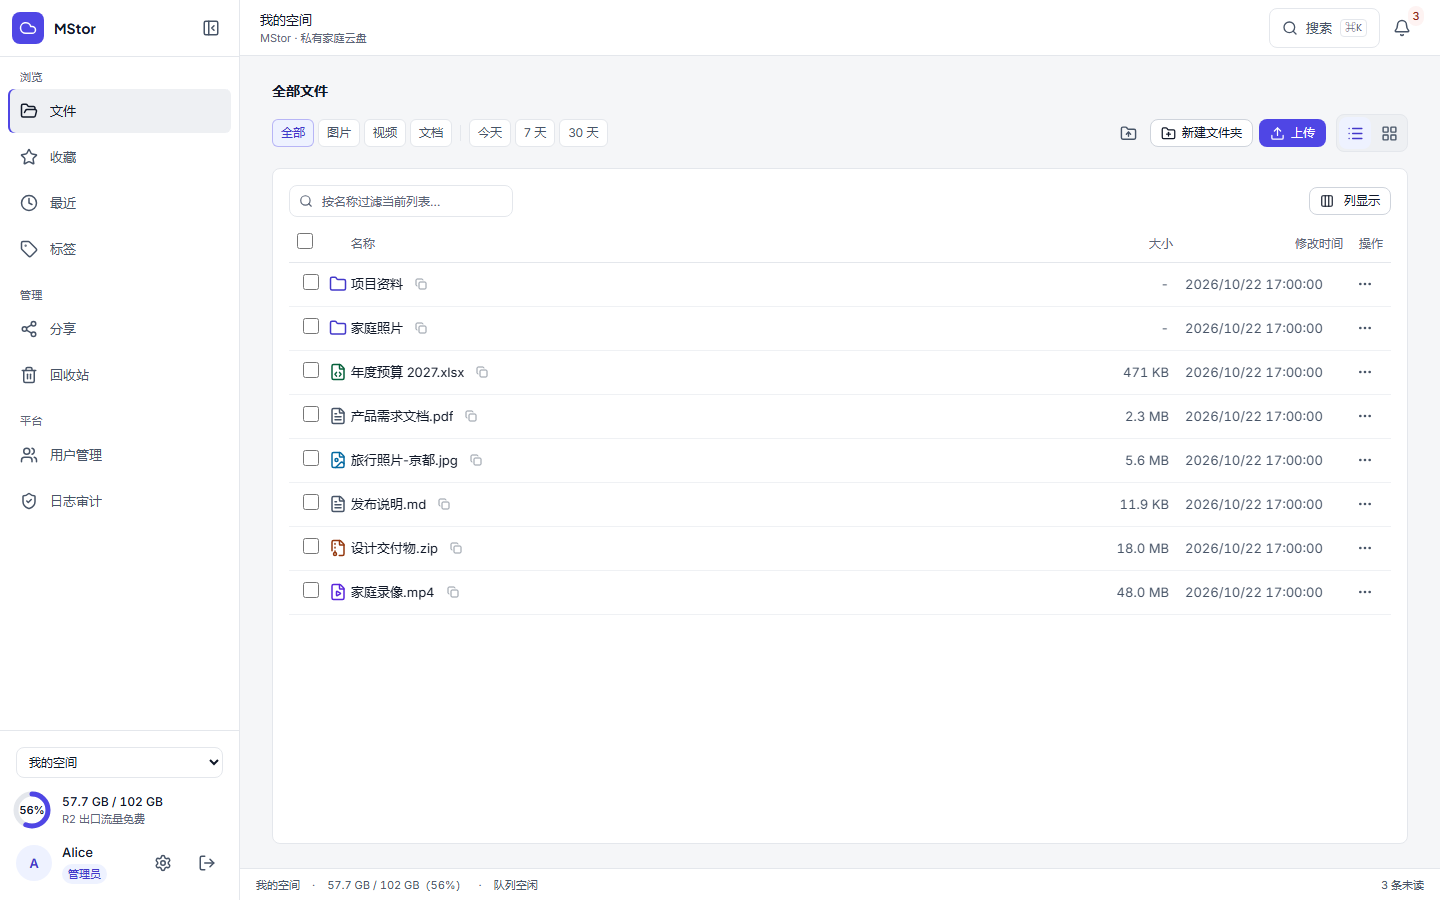
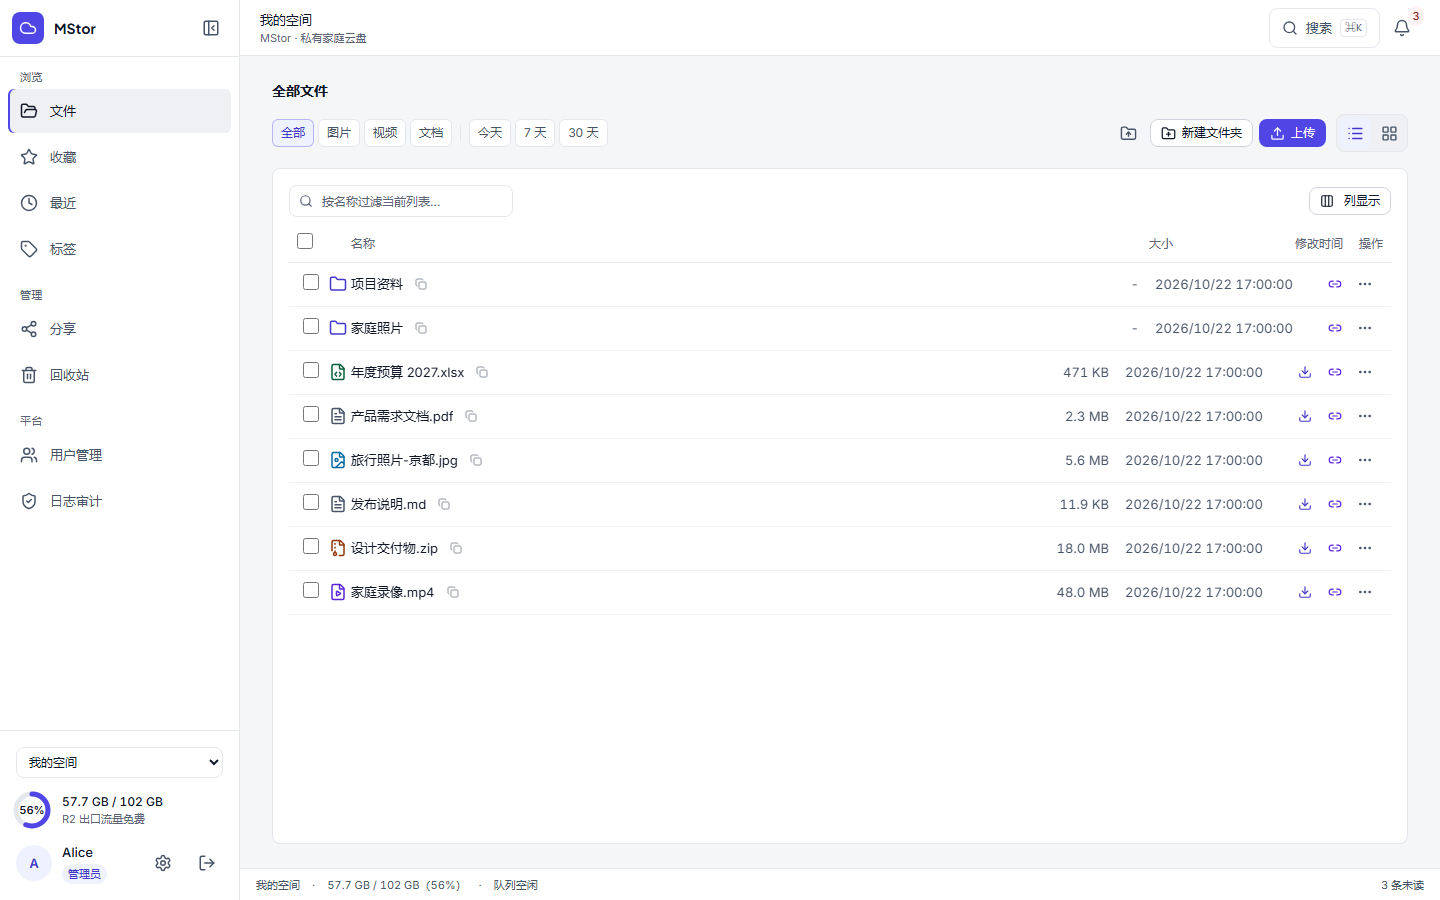
feat(files): 关键动作直显，次要动作折叠进更多
- 列表桌面：下载 + 分享 + 更多；文件夹：分享 + 更多；移动端下载 + 更多
- 网格桌面：下载 + 分享 + 更多；移动端下载 + 更多，保住卡片/文件名宽度
- 收藏/打开/重命名/移动/复制/链接/标签/删除/详情等次要动作收进更多菜单
- 新增关键动作展示用例；更新组件审计/v8.4 文档与视觉基线
- 客户端 267 例、server 29、visual 22/22；双 tsc/eslint/build 全绿

diff --git a/client/src/components/FileList.tsx b/client/src/components/FileList.tsx
@@ -9,7 +9,7 @@ import type {
   RefObject,
 } from "react";
 import type { FileTableRow } from "../hooks/useFileTable";
-import { Copy, Download, FolderOpen, MoreHorizontal } from "lucide-react";
+import { Copy, Download, FolderOpen, Link2, MoreHorizontal } from "lucide-react";
 import { contentUrl } from "../api/nodes";
 import { FileGrid } from "./FileGrid";
 import { FileRowCells } from "./FileRow";
@@ -79,6 +79,8 @@ interface Props {
   onDropMove?: (id: string, toDirId: string) => void;
   /** 空白区域框选：替换当前选择（ids 为命中的节点 id） */
   onSetSelection?: (ids: string[]) => void;
+  /** 关键操作：分享（列表桌面端直接展示，其余动作进「更多」） */
+  onShare?: (node: Node) => void;
   /** 移动端「更多」菜单：由页面提供菜单渲染（桌面仍显示完整行内操作） */
   onMoreMenu?: (node: Node, rect: DOMRect) => void;
 }
@@ -118,6 +120,7 @@ export default function FileList({
   onDropMove,
   onMoreMenu,
   onSetSelection,
+  onShare,
 }: Props) {
   // 拖拽移动状态：拖拽中禁用选择；文件夹行 dragover 高亮
   const [draggingId, setDraggingId] = useState<string | null>(null);
@@ -374,17 +377,35 @@ export default function FileList({
         onDoubleClick={(e) => e.stopPropagation()}
       >
         {onMoreMenu ? (
-          // 所有视口都只保留一个「更多」入口，动作收进菜单；不再依赖 hover 才出现
-          <RowAction
-            label={`更多操作 ${n.name}`}
-            className="tap"
-            onClick={(e) => {
-              e.stopPropagation();
-              onMoreMenu(n, e.currentTarget.getBoundingClientRect());
-            }}
-          >
-            <MoreHorizontal size={16} aria-hidden />
-          </RowAction>
+          <>
+            {/* 关键动作直接展示：文件「下载 + 分享」，文件夹「分享」；移动端仅下载+更多，把宽度让给文件名 */}
+            {download}
+            {onShare && (
+              <span className="hidden md:contents">
+                <RowAction
+                  label={`分享 ${n.name}`}
+                  tone="violet"
+                  onClick={(e) => {
+                    e.stopPropagation();
+                    onShare(n);
+                  }}
+                >
+                  <Link2 size={14} aria-hidden />
+                </RowAction>
+              </span>
+            )}
+            {/* 次要动作（收藏/重命名/移动/标签/删除…）全部收进更多 */}
+            <RowAction
+              label={`更多操作 ${n.name}`}
+              className="tap"
+              onClick={(e) => {
+                e.stopPropagation();
+                onMoreMenu(n, e.currentTarget.getBoundingClientRect());
+              }}
+            >
+              <MoreHorizontal size={16} aria-hidden />
+            </RowAction>
+          </>
         ) : (
           <>
             {download}

diff --git a/client/src/pages/Browser.tsx b/client/src/pages/Browser.tsx
@@ -1,7 +1,7 @@
 import { useEffect, useMemo, useRef, useState } from "react";
 import type { MouseEvent as ReactMouseEvent } from "react";
 import { useSearchParams } from "react-router-dom";
-import { Download, MoreHorizontal, TriangleAlert } from "lucide-react";
+import { Download, Link2, MoreHorizontal, TriangleAlert } from "lucide-react";
 import type { Node } from "../api/types";
 import Breadcrumb from "../components/Breadcrumb";
 import ContextMenu from "../components/ContextMenu";
@@ -222,6 +222,18 @@ export default function Browser() {
           <Download size={14} aria-hidden />
         </a>
       )}
+      <span className="hidden md:contents">
+        <RowAction
+          label={`分享 ${n.name}`}
+          tone="violet"
+          onClick={(e) => {
+            e.stopPropagation();
+            setSharing(n);
+          }}
+        >
+          <Link2 size={14} aria-hidden />
+        </RowAction>
+      </span>
       <RowAction
         label={`更多操作 ${n.name}`}
         onClick={(e) => {
@@ -350,6 +362,7 @@ export default function Browser() {
             emptyActions={filtered ? undefined : emptyDirActions}
             gridActions={gridActionsFor}
             onMoreMenu={(node, rect) => setMenu({ node, x: rect.right, y: rect.bottom })}
+            onShare={setSharing}
             onSetSelection={selection.setSelection}
             actions={(n) => (
               <NodeRowActions

diff --git a/client/src/components/FileList.test.tsx b/client/src/components/FileList.test.tsx
@@ -104,6 +104,23 @@ test("部分选中时表头全选框显示 indeterminate", () => {
   expect(all).toHaveAttribute("aria-checked", "mixed");
 });
 
+test("列表关键动作直接展示：下载/分享/更多，重命名折叠进菜单", () => {
+  const onShare = vi.fn();
+  renderWithProviders(
+    <FileList
+      nodes={[node()]}
+      onOpenDir={noop}
+      onOpenFile={noop}
+      onShare={onShare}
+      onMoreMenu={vi.fn()}
+    />,
+  );
+  expect(screen.getByRole("link", { name: "下载 hello.txt" })).toBeInTheDocument();
+  expect(screen.getByRole("button", { name: "分享 hello.txt" })).toBeInTheDocument();
+  expect(screen.getByRole("button", { name: "更多操作 hello.txt" })).toBeInTheDocument();
+  expect(screen.queryByRole("button", { name: /重命名 hello.txt/ })).not.toBeInTheDocument();
+});
+
 test("框选：空白区域拖拽按矩形命中行并替换选择", () => {
   const onSetSelection = vi.fn();
   const { container } = renderWithProviders(

diff --git a/docs/design-system.md b/docs/design-system.md
@@ -22,8 +22,8 @@ v8 借鉴并落地：
 
 ### v8.4 操作入口常显
 
-- 列表每行常显单个「更多」入口，移除 hover 才出现的 6 个行内图标；动作菜单含收藏、打开、下载、分享、重命名、移动、复制、复制链接、标签、删除、详情。
-- 网格卡片常显「下载 + 更多」；不再依赖 hover 才可见。
+- 关键动作直接展示：桌面列表/网格为「下载 + 分享 + 更多」，文件夹为「分享 + 更多」；移动端为「下载 + 更多」。
+- 次要动作折叠进「更多」：收藏、打开、重命名、移动、复制、复制链接、标签、删除、详情；菜单含下载/分享作为键盘可达兜底。
 - 右键菜单与「更多」共用 useNodeActions，行为不分叉；更多按钮 coarse 指针 44px。
 - 工具条/命令面板/侧栏评分与改进项见 docs/component-ux-audit.md。
 
@@ -32,7 +32,7 @@ v8 借鉴并落地：
 - FileList 支持空白区域鼠标框选：固定定位矩形、命中 data-node-id 行/卡片、替换选择；Shift/Ctrl/Cmd 追加。
 - 只在粗指针为 false 且起点不在行/按钮/输入框/表头时启动，避免与行拖拽移动、触屏滚动冲突。
 - 单击空白（未拖动）清空选择；框选覆盖列表、虚拟列表与网格三种渲染路径。
-- 新增 FileList 框选用例；客户端 266 例。
+- 新增 FileList 框选用例；客户端 267 例。
 
 ### v8.3 视频缩略图与预览
 

diff --git a/docs/component-ux-audit.md b/docs/component-ux-audit.md
@@ -56,14 +56,15 @@
 
 现在：
 
-- 列表每行**常显一个「更多」**（28px，coarse 指针 44px），所有动作进入菜单；
-- 网格卡片常显「下载 + 更多」；
+- **关键动作直接展示**：列表桌面端为「下载 + 分享 + 更多」，文件夹为「分享 + 更多」；移动端保留「下载 + 更多」；
+- 网格卡片桌面端为「下载 + 分享 + 更多」，移动端为「下载 + 更多」；
+- **次要动作折叠**：收藏/取消收藏、打开、重命名、移动、复制到、复制链接、标签、删除、详情全部进「更多」菜单；
 - 菜单包含：收藏/取消收藏、打开、下载、分享、重命名、移动、复制到、复制链接、标签、删除、详情；
 - 右键菜单与「更多」共用同一份 useNodeActions，行为不分叉；
 - 表格/卡片的选中态、hover、焦点仍然独立。
 
-评分：**4.5/5**。发现性明显提升，噪声低于「6 个图标常显」，也比 hover-only 更可靠。
-Trade-off：重命名/移动多一次点击；对于高频重命名用户，可后续加一个「双击重命名」或快捷键 F2（已支持键盘 F2）。
+评分：**4.7/5**。关键路径一眼可见，危险/低频动作不占主视觉；移动端把分享折叠以保住文件名宽度。
+Trade-off：桌面端分享多一个图标；重命名/移动多一次点击。
 
 ## 4. 其他组件
 

diff --git a/DESIGN.md b/DESIGN.md
@@ -66,7 +66,7 @@ Button：高度 32 / 36，圆角 8，1px 边；hover 只改背景色，不位移
 Card：1px 发丝边 + 圆角 8；内容卡片无投影；只有浮层使用 lift。
 Input：高度 36，1px 边，焦点时 border 变 accent，不加外发光。
 Selection：黑白高对比，不使用 accent tint。列表选中行 ink 5% tint + 3px ink rail；网格选中卡 ink 边框 + ring；checkbox 使用 accent-ink；表头部分选中显示 indeterminate；Esc 清空选择，不依赖焦点在行上。空白区域可拖拽框选（Shift/Ctrl 追加，鼠标专属）。
-Actions：列表每行常显一个「更多」入口，所有动作进菜单；网格常显「下载 + 更多」。禁止把核心动作只藏在 hover 里。
+Actions：关键动作直接展示——文件「下载 + 分享」、文件夹「分享」；次要动作折叠进「更多」。桌面列表/网格均如此，移动端只保留「下载 + 更多」以保住文件名宽度。禁止把核心动作只藏在 hover 里。
 Table：表头 11px 大写弱化色；行高 44；行 hover 只改背景。
 Dialog：桌面居中圆角 12，移动端底部抽屉；遮罩不使用重模糊。
 Command palette：单纵向面板；输入 → 分段筛选 → 结果滚动 → 键盘提示；禁止输入框下再套绝对定位下拉。

diff --git a/docs/ux-refactor-report.md b/docs/ux-refactor-report.md
@@ -557,9 +557,9 @@
 ### 19.18 组件 UX 评估与操作入口常显
 
 - 逐组件评估文件选择、列表布局、操作入口、工具栏、侧栏/顶栏、命令面板、弹窗、批量条、空态/加载态。
-- 操作入口：列表由 hover 显示 6 个图标改为常显「更多」菜单；网格常显「下载 + 更多」；菜单补收藏动作，统一 useNodeActions。
+- 操作入口：关键动作直接展示（桌面下载+分享+更多，移动下载+更多），次要动作折叠进菜单；菜单补收藏，统一 useNodeActions。
 - 选择能力：批量勾选、Shift 范围、Ctrl/Cmd+A、长按、Esc、空白区域鼠标框选均已具备；框选支持 Shift/Ctrl 追加。
-- 评分与优先级见 docs/component-ux-audit.md；客户端 266 例、server 29、visual 22/22。
+- 评分与优先级见 docs/component-ux-audit.md；客户端 267 例、server 29、visual 22/22。
 
 ### 19.19 视频缩略图与预览
 

diff --git a/docs/functional-audit.md b/docs/functional-audit.md
@@ -7,7 +7,7 @@
 
 | 闸门 | 结果 |
 |---|---|
-| 客户端 Vitest | **44 文件 / 266 例通过** |
+| 客户端 Vitest | **44 文件 / 267 例通过** |
 | 服务端本地 shim | **29 项通过** |
 | 双 TypeScript | 通过 |
 | ESLint | 通过 |
